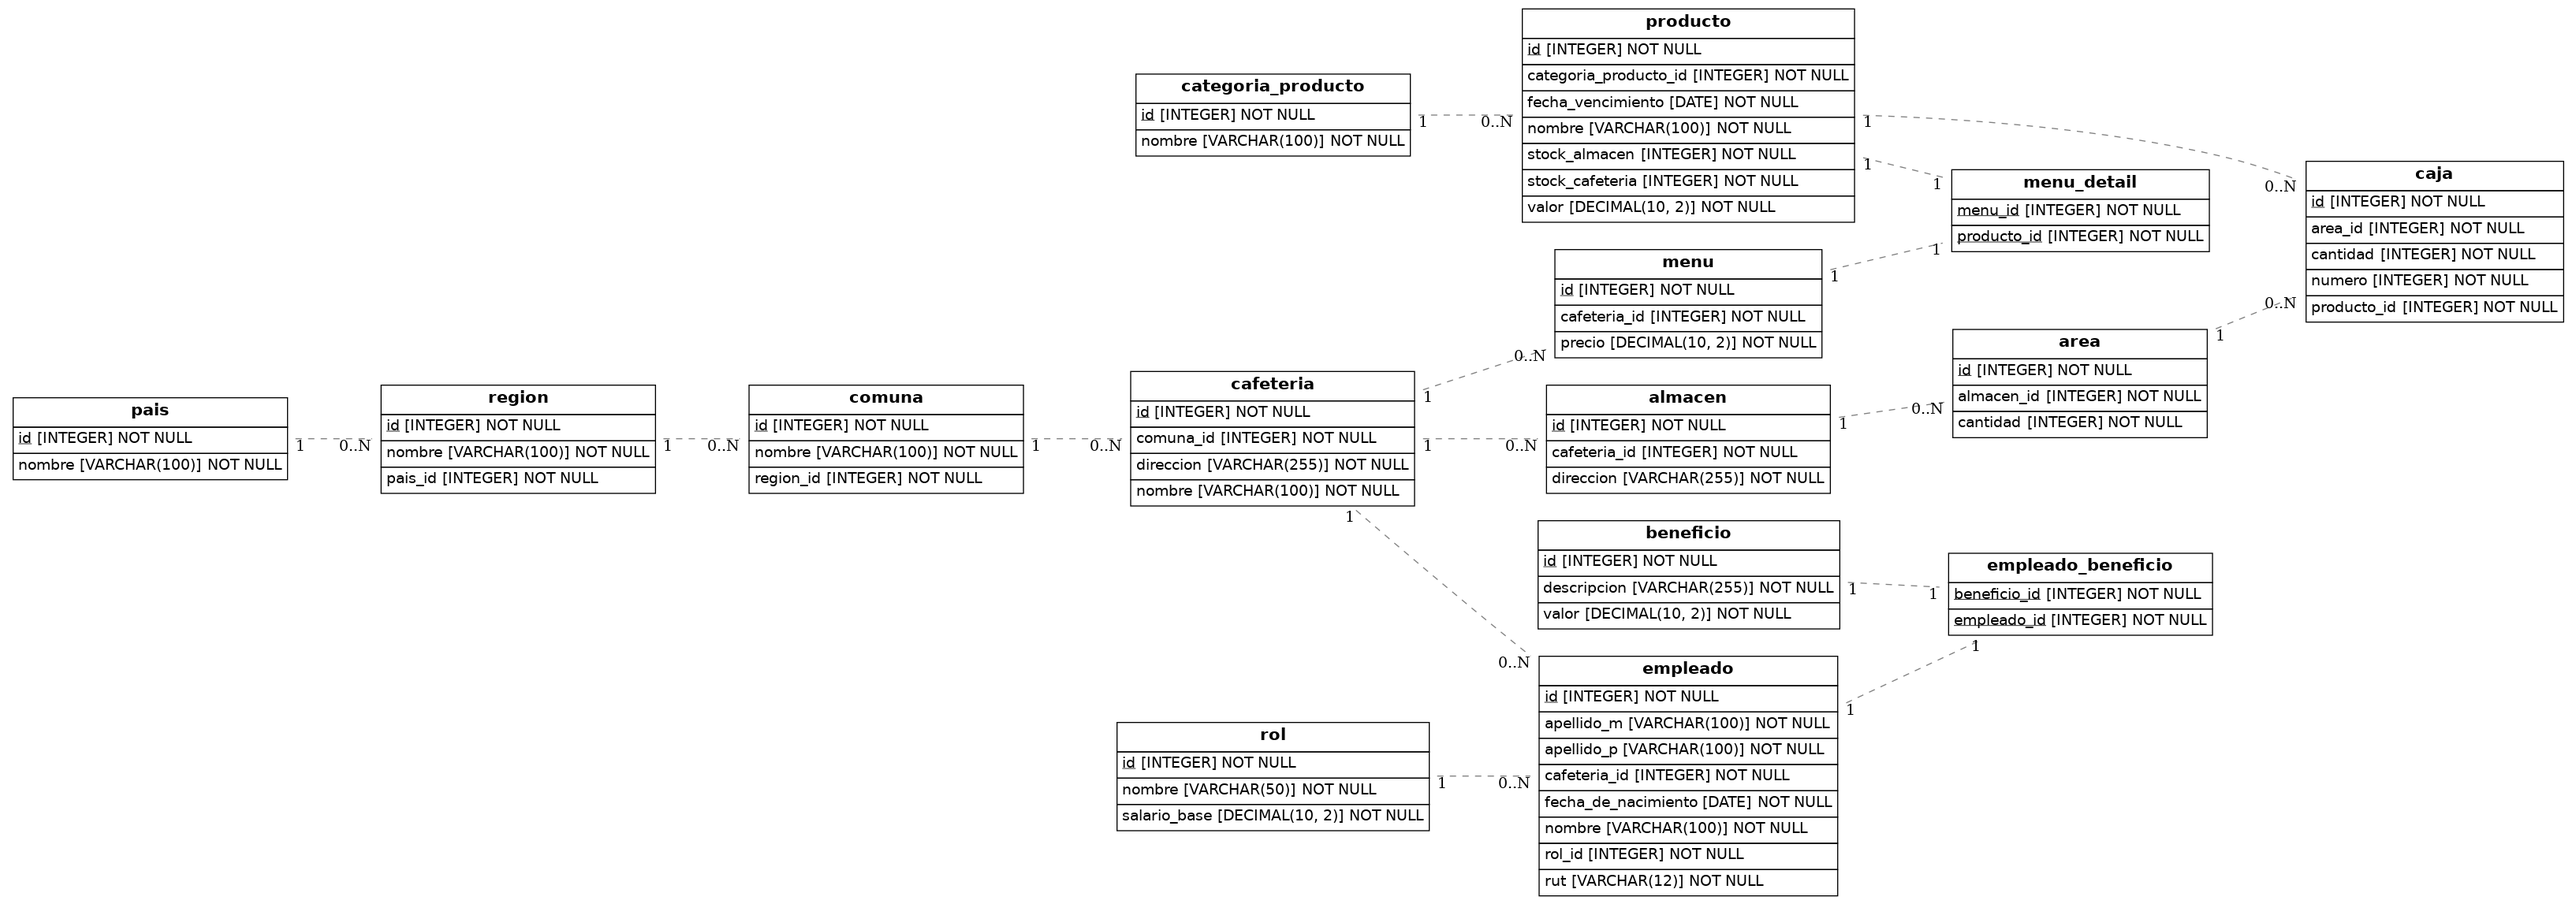
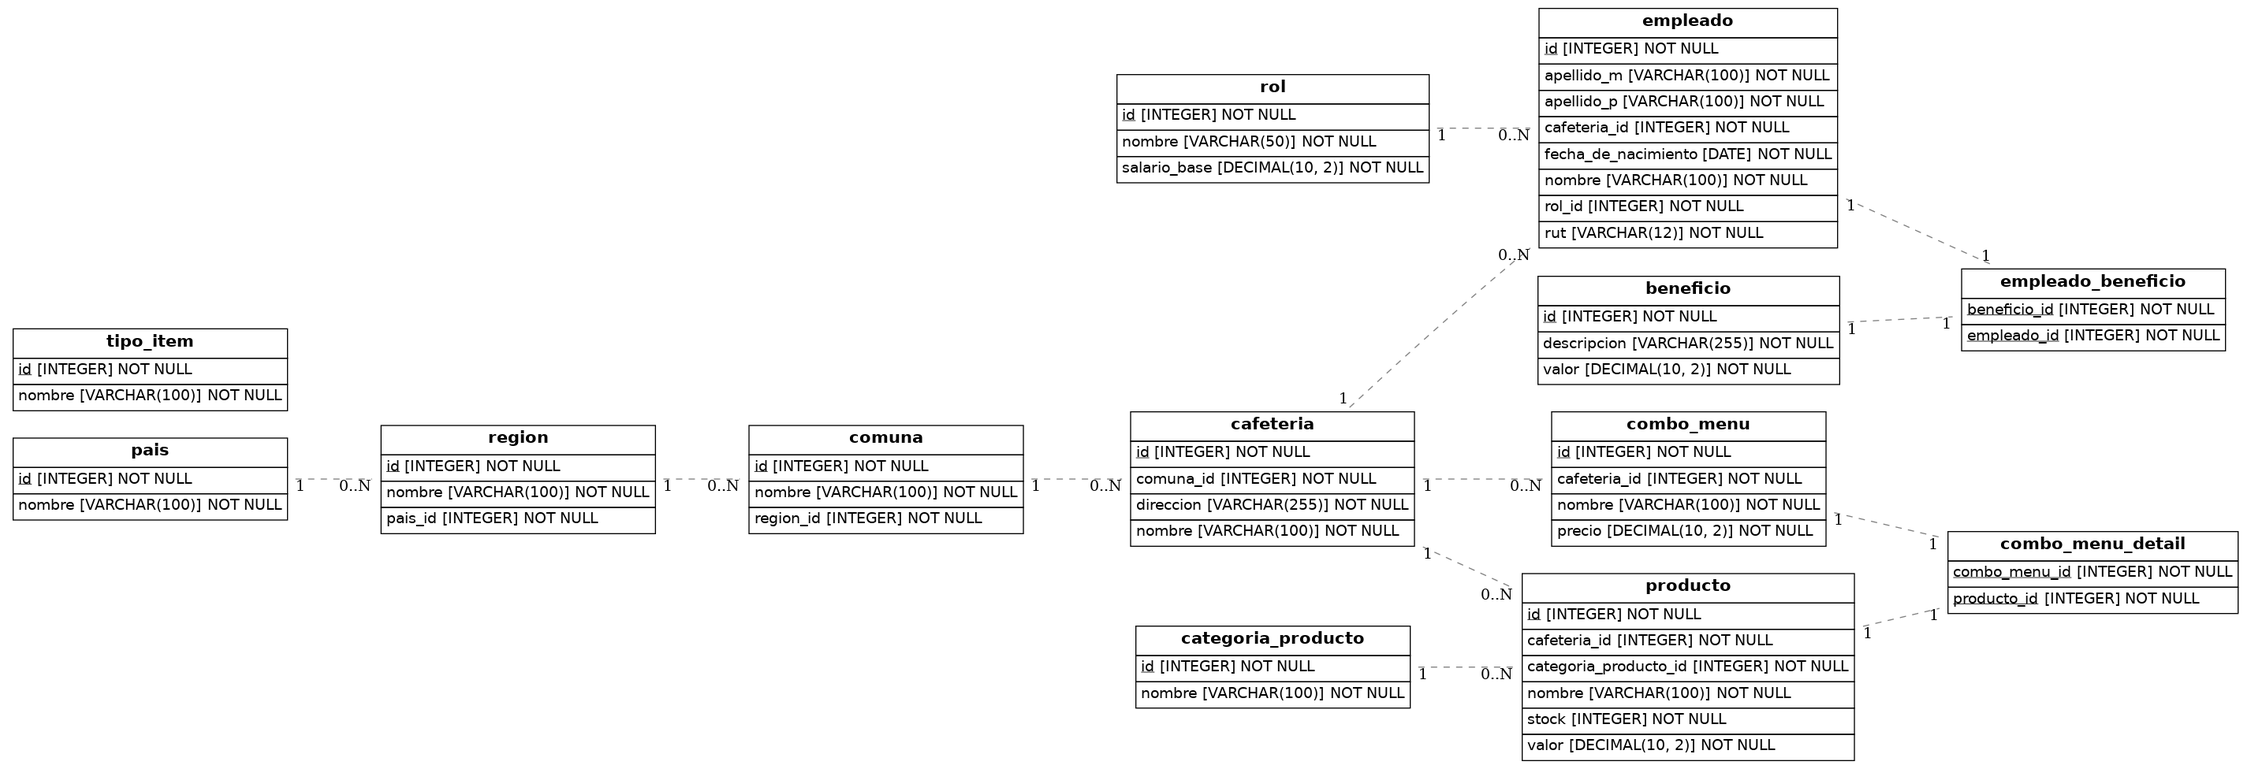
new diagram

Changed region(s): [[0.0, 0.0, 0.9975, 1.0], [0.8729, 0.1844, 0.904, 0.2152]]

diff --git a/src/models.py b/src/models.py
@@ -80,87 +80,49 @@ class Empleado(Base):
     cafeteria_id = Column(Integer, ForeignKey('cafeteria.id'), nullable=False)
     cafeteria = relationship('Cafeteria')
 
-# Clase Producto
+# Clase Producto (Se venden individualmente)
 class Producto(Base):
     __tablename__ = 'producto'
     id = Column(Integer, primary_key=True, autoincrement=True)
     nombre = Column(String(100), nullable=False)
-    fecha_vencimiento = Column(Date, nullable=False)
     valor = Column(DECIMAL(10, 2), nullable=False)
-    stock_cafeteria = Column(Integer, nullable=False, default=0)  # Control de stock en la cafetería
-    stock_almacen = Column(Integer, nullable=False, default=0)    # Control de stock en el almacén
+    stock = Column(Integer, nullable=False, default=0)  # Campo de stock agregado
 
     # Foreign Key y relación con categoría de producto
     categoria_producto_id = Column(Integer, ForeignKey('categoria_producto.id'), nullable=False)
     categoria_producto = relationship('CategoriaProducto')
 
-# Clase CategoriaProducto (anteriormente TipoProducto)
+    # Foreign Key para cafetería
+    cafeteria_id = Column(Integer, ForeignKey('cafeteria.id'), nullable=False)
+    cafeteria = relationship('Cafeteria', back_populates='productos')
+
+# Clase CategoriaProducto
 class CategoriaProducto(Base):
     __tablename__ = 'categoria_producto'
     id = Column(Integer, primary_key=True, autoincrement=True)
     nombre = Column(String(100), nullable=False)
 
-# Clase Menu
-class Menu(Base):
-    __tablename__ = 'menu'
+# Clase ComboMenu (Contiene los combos)
+class ComboMenu(Base):
+    __tablename__ = 'combo_menu'
     id = Column(Integer, primary_key=True, autoincrement=True)
+    nombre = Column(String(100), nullable=False)  # Nuevo campo 'nombre' agregado
     precio = Column(DECIMAL(10, 2), nullable=False)
-
-    # Foreign Key para cafetería
-    cafeteria_id = Column(Integer, ForeignKey('cafeteria.id'), nullable=False)
-    cafeteria = relationship('Cafeteria', back_populates='menus')
-
-    # Relación con productos
-    productos = relationship('Producto', secondary='menu_detail')
-
-# Tabla intermedia para la relación muchos a muchos entre Menu y Producto
-menu_detail = Table('menu_detail', Base.metadata,
-    Column('menu_id', Integer, ForeignKey('menu.id'), primary_key=True),
-    Column('producto_id', Integer, ForeignKey('producto.id'), primary_key=True)
-)
-
-# Clase Almacen
-class Almacen(Base):
-    __tablename__ = 'almacen'
-    id = Column(Integer, primary_key=True, autoincrement=True)
-    direccion = Column(String(255), nullable=False)
 
     # Foreign Key para la cafetería
     cafeteria_id = Column(Integer, ForeignKey('cafeteria.id'), nullable=False)
     cafeteria = relationship('Cafeteria')
 
-    # Relación con áreas
-    areas = relationship('Area')
+    # Relación con productos a través de la tabla intermedia
+    productos = relationship('Producto', secondary='combo_menu_detail')
 
-# Clase Area (Ahora pertenece a un Almacen)
-class Area(Base):
-    __tablename__ = 'area'
-    id = Column(Integer, primary_key=True, autoincrement=True)
-    cantidad = Column(Integer, nullable=False)
+# Tabla intermedia para la relación muchos a muchos entre ComboMenu y Producto
+combo_menu_detail = Table('combo_menu_detail', Base.metadata,
+    Column('combo_menu_id', Integer, ForeignKey('combo_menu.id'), primary_key=True),
+    Column('producto_id', Integer, ForeignKey('producto.id'), primary_key=True)
+)
 
-    # Foreign Key y relación con almacén
-    almacen_id = Column(Integer, ForeignKey('almacen.id'), nullable=False)
-    almacen = relationship('Almacen')
-
-    # Relación con cajas
-    cajas = relationship('Caja')
-
-# Clase Caja (Pertenece a un Area)
-class Caja(Base):
-    __tablename__ = 'caja'
-    id = Column(Integer, primary_key=True, autoincrement=True)
-    numero = Column(Integer, nullable=False)
-    cantidad = Column(Integer, nullable=False)
-
-    # Foreign Key y relación con área
-    area_id = Column(Integer, ForeignKey('area.id'), nullable=False)
-    area = relationship('Area')
-
-    # Foreign Key y relación con producto
-    producto_id = Column(Integer, ForeignKey('producto.id'), nullable=False)
-    producto = relationship('Producto')
-
-# Clase Cafetería
+# Clase Cafeteria
 class Cafeteria(Base):
     __tablename__ = 'cafeteria'
     id = Column(Integer, primary_key=True, autoincrement=True)
@@ -173,14 +135,18 @@ class Cafeteria(Base):
 
     # Relaciones
     empleados = relationship('Empleado')
-    almacen = relationship('Almacen', uselist=False)
+    productos = relationship('Producto', back_populates='cafeteria')  # Relación con productos
+    combos = relationship('ComboMenu')
 
-    # Relación con menús
-    menus = relationship('Menu', back_populates='cafeteria')
+# Nueva Clase TipoItem
+class TipoItem(Base):
+    __tablename__ = 'tipo_item'
+    id = Column(Integer, primary_key=True, autoincrement=True)
+    nombre = Column(String(100), nullable=False)  # Tipo de ítem: 'producto' o 'combo'
 
 # Configurar conexión a la base de datos (añadir motor a la base de datos)
 # engine = create_engine('postgresql://usuario:password@localhost:5432/mi_base_de_datos')
 # Base.metadata.create_all(engine)
 
-## Dibujar el diagrama
+# Dibujar el diagrama
 render_er(Base, 'diagram.png')
